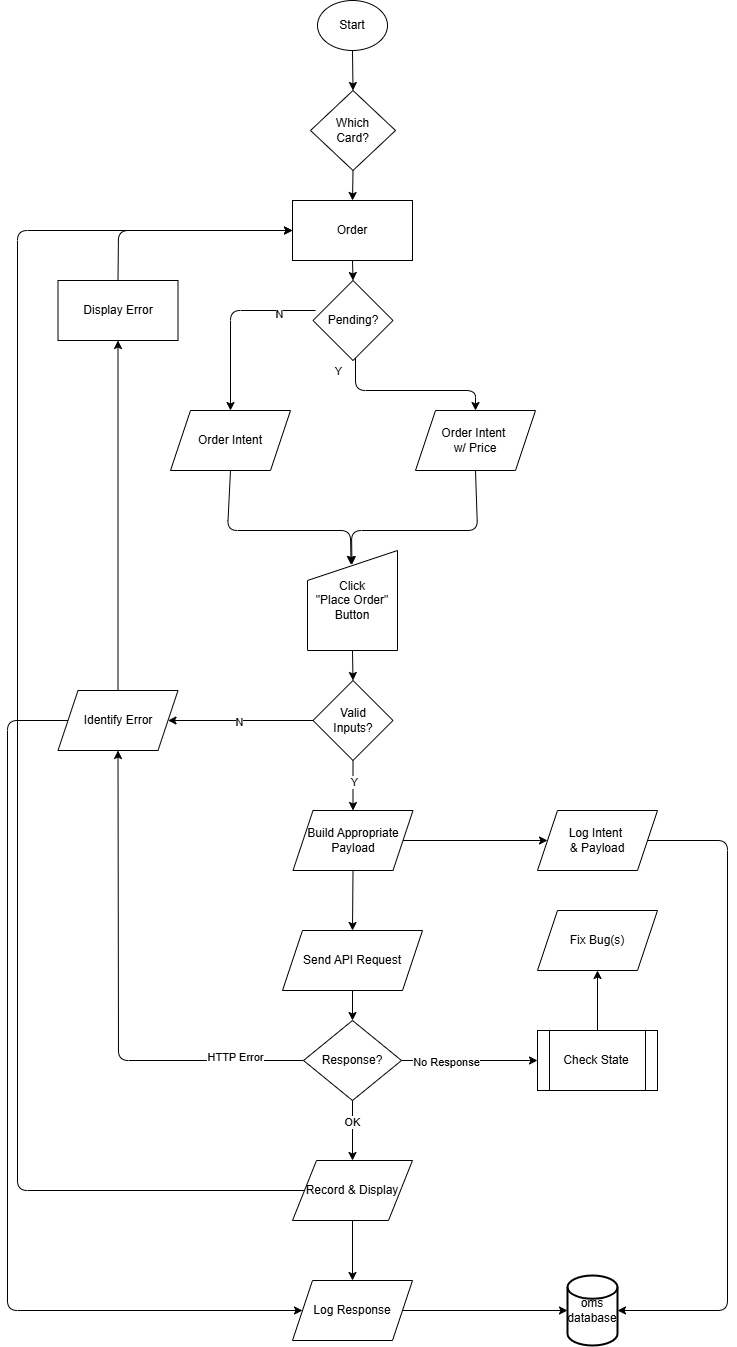
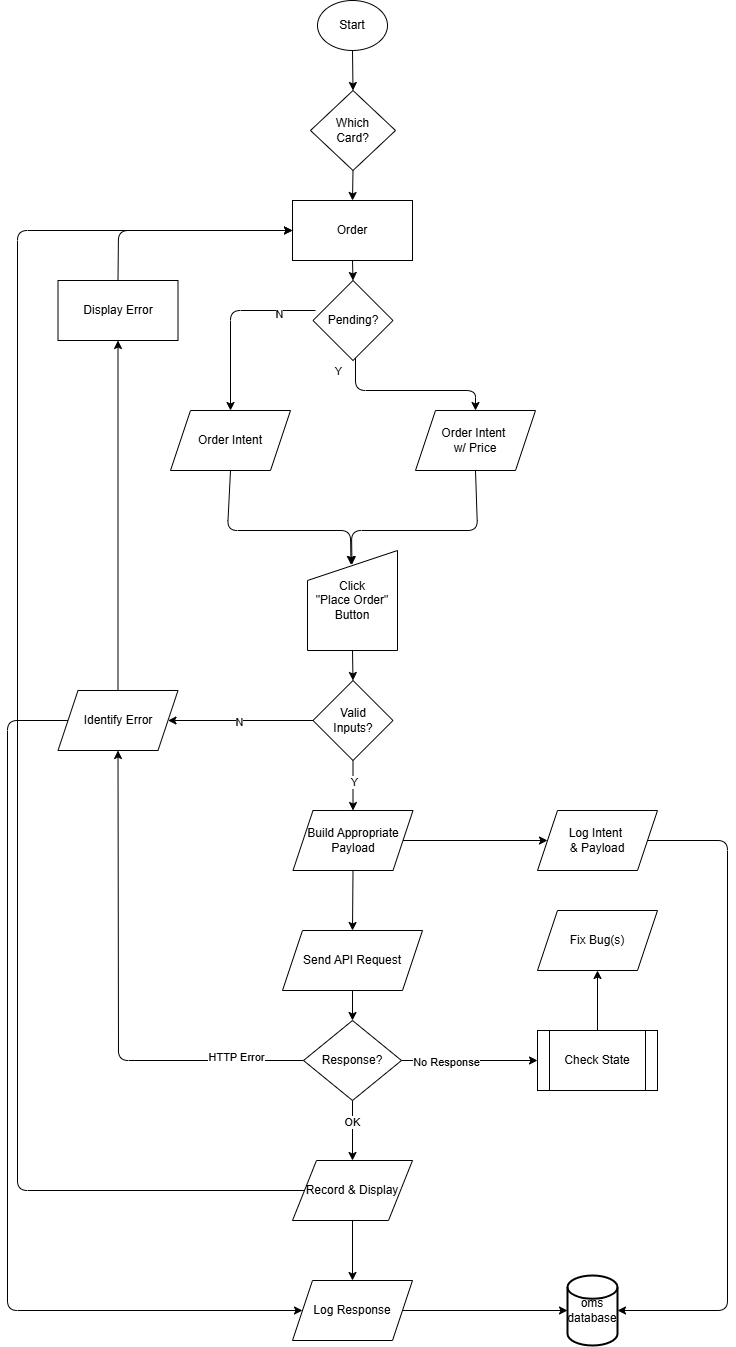
diagram state

diff --git a/README.md b/README.md
@@ -18,4 +18,9 @@ OMS solves this problem by having one UI that allows for the execution across al
 
 <img src="attachments\oms-demo.gif" alt="oms-demo">
 
+
+<p align="center">
+  <img src="docs/diagrams/state_diagram.png" alt="CIE System Flowchart" width="80%">
+</p>
+
 Developing...
